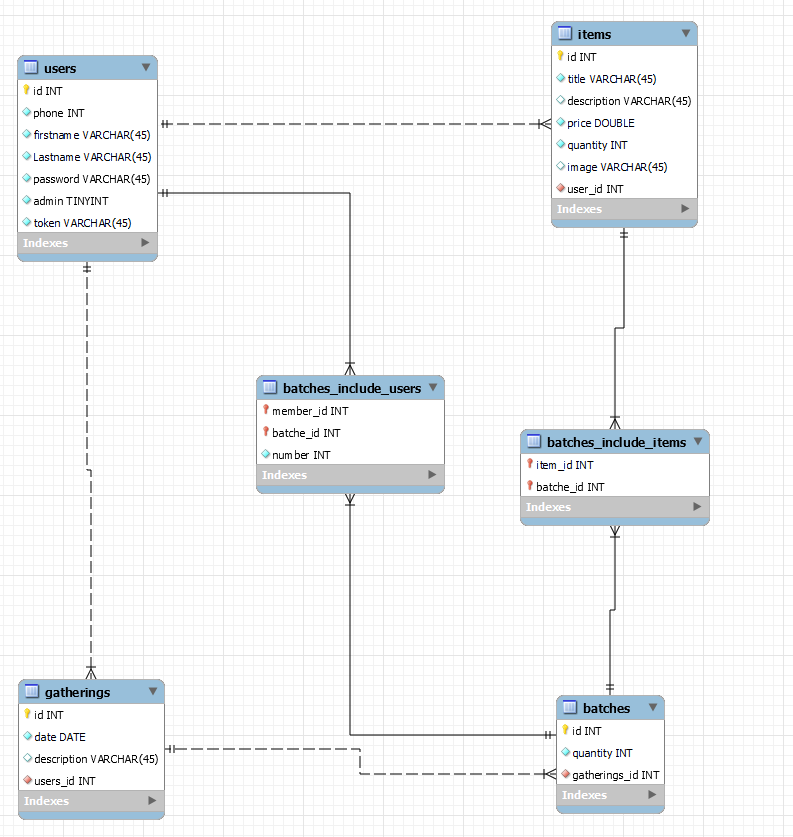
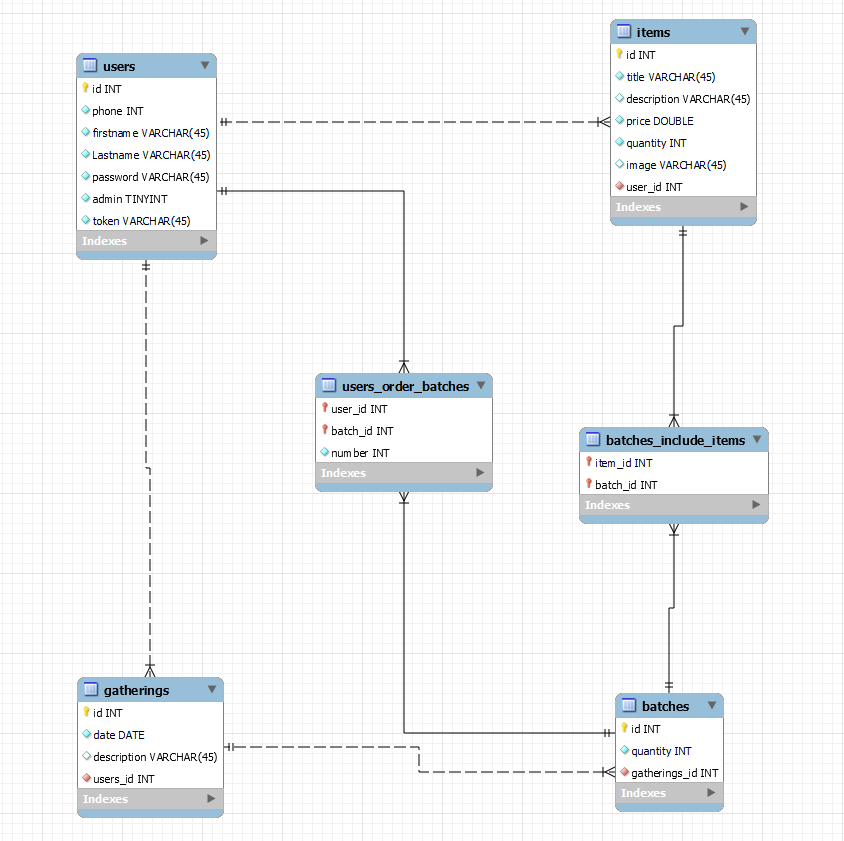
Factory end

Changed region(s): [[0.0, 0.0, 0.9382, 0.994], [0.1513, 0.4659, 0.1816, 0.497], [0.0908, 0.4659, 0.1211, 0.497]]

diff --git a/fiame-desk/database/seeders/DatabaseSeeder.php b/fiame-desk/database/seeders/DatabaseSeeder.php
@@ -2,8 +2,14 @@
 
 namespace Database\Seeders;
 
+use App\Models\Batch;
+use App\Models\batches_include_items;
 use Illuminate\Database\Console\Seeds\WithoutModelEvents;
 use Illuminate\Database\Seeder;
+use App\Models\User;
+use App\Models\Gathering;
+use App\Models\Item;
+use App\Models\users_order_batches;
 
 class DatabaseSeeder extends Seeder
 {
@@ -14,6 +20,11 @@ class DatabaseSeeder extends Seeder
      */
     public function run()
     {
-        // \App\Models\User::factory(10)->create();
+        $users = User::factory(10)->create();
+        $items = Item::factory(10)->create(['user_id' => function() use ($users) {return $users->random()->id;}]);
+        $gatherings = Gathering::factory(10)->create(['user_id' => function() use ($users) {return $users->random()->id;}]);
+        $batches = Batch::factory(10)->create(['gathering_id' => function() use ($gatherings) {return $gatherings->random()->id;}]);
+        users_order_batches::factory(10)->create(['user_id' => function() use ($users) {return $users->random()->id;}, 'batch_id' => function() use ($batches) {return $batches->random()->id;}]);
+        batches_include_items::factory(10)->create(['item_id' => function() use ($items) {return $items->random()->id;}, 'batch_id' => function() use ($batches) {return $batches->random()->id;}]);
     }
 }

diff --git a/fiame-desk/database/factories/UserFactory.php b/fiame-desk/database/factories/UserFactory.php
@@ -25,11 +25,12 @@ class UserFactory extends Factory
     public function definition()
     {
         return [
-            'name' => $this->faker->name(),
-            'email' => $this->faker->unique()->safeEmail(),
-            'email_verified_at' => now(),
-            'password' => '$2y$10$92IXUNpkjO0rOQ5byMi.Ye4oKoEa3Ro9llC/.og/at2.uheWG/igi', // password
-            'remember_token' => Str::random(10),
+            'firstname' => $this->faker->firstName(),
+            'lastname' => $this->faker->lastName(),
+            'phone' => '07'.rand(7000000, 9999999),
+            'admin' => rand(1,5) == 1 ? true : false,
+            'token' => Str::random(30),
+            'password' => 'Pa$$w0rd', // password
         ];
     }
 

diff --git a/fiame-desk/database/factories/ItemFactory.php b/fiame-desk/database/factories/ItemFactory.php
@@ -1,0 +1,28 @@
+<?php
+
+namespace Database\Factories;
+use Illuminate\Support\Str;
+
+use Illuminate\Database\Eloquent\Factories\Factory;
+
+/**
+ * @extends \Illuminate\Database\Eloquent\Factories\Factory<\App\Models\Model>
+ */
+class ItemFactory extends Factory
+{
+    /**
+     * Define the model's default state.
+     *
+     * @return array<string, mixed>
+     */
+    public function definition()
+    {
+        return [
+            'title' => $this->faker->unique()->text(10),
+            'description' => $this->faker->text(),
+            'price' => random_int(2,50),
+            'quantity' => rand(1,100),
+            'image' => Str::random(30),
+        ];
+    }
+}

diff --git a/fiame-desk/database/migrations/2022_05_09_080951_create_users_order_batches_table.php b/fiame-desk/database/migrations/2022_05_09_080951_create_users_order_batches_table.php
@@ -13,10 +13,10 @@ return new class extends Migration
      */
     public function up()
     {
-        Schema::create('batches_include_users', function (Blueprint $table) {
+        Schema::create('users_order_batches', function (Blueprint $table) {
             $table->foreignId('user_id')->constrained('users');
             $table->foreignId('batch_id')->constrained('batches');
-            $table->integer('number');
+            $table->integer('number')->autoIncrement();
             $table->timestamps();
         });
     }

diff --git a/fiame-desk/database/factories/GatheringFactory.php b/fiame-desk/database/factories/GatheringFactory.php
@@ -1,0 +1,24 @@
+<?php
+
+namespace Database\Factories;
+
+use Illuminate\Database\Eloquent\Factories\Factory;
+
+/**
+ * @extends \Illuminate\Database\Eloquent\Factories\Factory<\App\Models\Gathering>
+ */
+class GatheringFactory extends Factory
+{
+    /**
+     * Define the model's default state.
+     *
+     * @return array<string, mixed>
+     */
+    public function definition()
+    {
+        return [
+            'date' => $this->faker->date(),
+            'description' => $this->faker->text(45),
+        ];
+    }
+}

diff --git a/fiame-desk/database/factories/Batches_include_itemsFactory.php b/fiame-desk/database/factories/Batches_include_itemsFactory.php
@@ -1,0 +1,23 @@
+<?php
+
+namespace Database\Factories;
+
+use Illuminate\Database\Eloquent\Factories\Factory;
+
+/**
+ * @extends \Illuminate\Database\Eloquent\Factories\Factory<\App\Models\Batches_include_items>
+ */
+class Batches_include_itemsFactory extends Factory
+{
+    /**
+     * Define the model's default state.
+     *
+     * @return array<string, mixed>
+     */
+    public function definition()
+    {
+        return [
+            //
+        ];
+    }
+}

diff --git a/fiame-desk/database/factories/Users_order_batchesFactory.php b/fiame-desk/database/factories/Users_order_batchesFactory.php
@@ -1,0 +1,23 @@
+<?php
+
+namespace Database\Factories;
+
+use Illuminate\Database\Eloquent\Factories\Factory;
+
+/**
+ * @extends \Illuminate\Database\Eloquent\Factories\Factory<\App\Models\Users_order_batches>
+ */
+class Users_order_batchesFactory extends Factory
+{
+    /**
+     * Define the model's default state.
+     *
+     * @return array<string, mixed>
+     */
+    public function definition()
+    {
+        return [
+            //
+        ];
+    }
+}

diff --git a/fiame-desk/database/factories/BatchFactory.php b/fiame-desk/database/factories/BatchFactory.php
@@ -1,0 +1,23 @@
+<?php
+
+namespace Database\Factories;
+
+use Illuminate\Database\Eloquent\Factories\Factory;
+
+/**
+ * @extends \Illuminate\Database\Eloquent\Factories\Factory<\App\Models\Batch>
+ */
+class BatchFactory extends Factory
+{
+    /**
+     * Define the model's default state.
+     *
+     * @return array<string, mixed>
+     */
+    public function definition()
+    {
+        return [
+            'quantity' => rand(1,100),
+        ];
+    }
+}

diff --git a/fiame-desk/app/Models/batches_include_items.php b/fiame-desk/app/Models/batches_include_items.php
@@ -1,0 +1,11 @@
+<?php
+
+namespace App\Models;
+
+use Illuminate\Database\Eloquent\Factories\HasFactory;
+use Illuminate\Database\Eloquent\Model;
+
+class batches_include_items extends Model
+{
+    use HasFactory;
+}

diff --git a/fiame-desk/app/Models/users_order_batches.php b/fiame-desk/app/Models/users_order_batches.php
@@ -1,0 +1,11 @@
+<?php
+
+namespace App\Models;
+
+use Illuminate\Database\Eloquent\Factories\HasFactory;
+use Illuminate\Database\Eloquent\Model;
+
+class users_order_batches extends Model
+{
+    use HasFactory;
+}

diff --git a/fiame-desk/app/Models/Gathering.php b/fiame-desk/app/Models/Gathering.php
@@ -1,0 +1,11 @@
+<?php
+
+namespace App\Models;
+
+use Illuminate\Database\Eloquent\Factories\HasFactory;
+use Illuminate\Database\Eloquent\Model;
+
+class Gathering extends Model
+{
+    use HasFactory;
+}

diff --git a/fiame-desk/app/Models/Batch.php b/fiame-desk/app/Models/Batch.php
@@ -1,0 +1,11 @@
+<?php
+
+namespace App\Models;
+
+use Illuminate\Database\Eloquent\Factories\HasFactory;
+use Illuminate\Database\Eloquent\Model;
+
+class Batch extends Model
+{
+    use HasFactory;
+}
